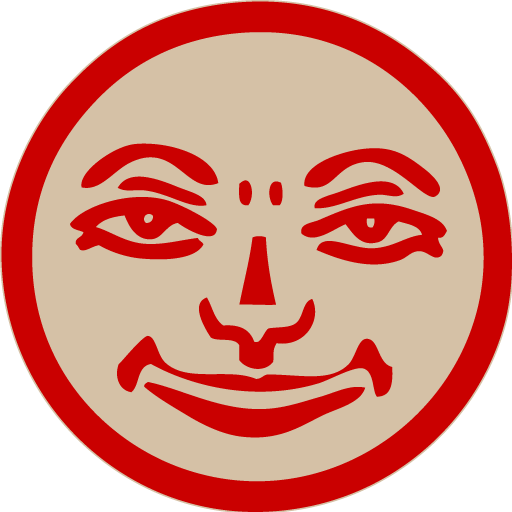
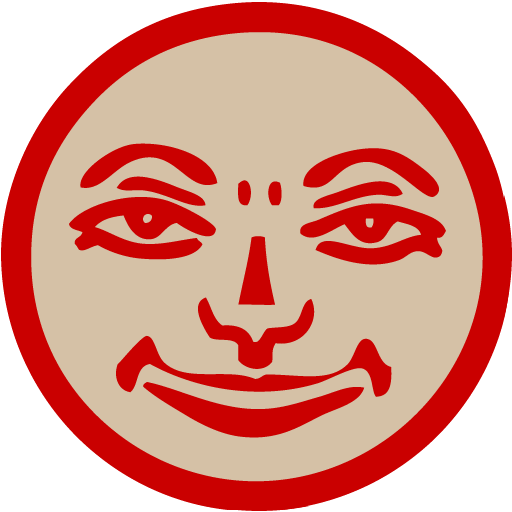
Refresh Jimmykub visual design
Replace the purple/yellow interface with a warmer Rummikub-inspired tile palette based on the favicon colors and classic red, blue, yellow, and black tile identity.\n\nAdd the joker mark to the setup screen, constrain the desktop layout to the mobile-width view, tighten vertical spacing, update player color backplates, and adjust theme metadata.\n\nFix duration handling so preset selections can start the timer without the empty custom field clearing the chosen length.

diff --git a/style.css b/style.css
@@ -1,15 +1,15 @@
 :root {
-  --bg: #0f1023;
-  --bg-2: #1a1a2e;
-  --card: #232347;
-  --card-2: #2d2d5a;
-  --text: #f4f4ff;
-  --muted: #9696c4;
-  --accent: #ffd166;
-  --accent-2: #ef476f;
-  --good: #06d6a0;
-  --warn: #ffb703;
-  --bad: #ef476f;
+  --bg: #d5c1a3;
+  --bg-2: #eadcc7;
+  --card: #fff8ec;
+  --card-2: #f2e5d0;
+  --text: #241d18;
+  --muted: #7b6d5c;
+  --accent: #d30000;
+  --accent-2: #0057b8;
+  --good: #0057b8;
+  --warn: #f2c94c;
+  --bad: #d30000;
   --safe-top: env(safe-area-inset-top, 0px);
   --safe-bot: env(safe-area-inset-bottom, 0px);
 }
@@ -42,16 +42,34 @@ body { overflow: hidden; }
 
 /* ---------- Setup screen ---------- */
 #setup-screen {
-  padding: calc(var(--safe-top) + 16px) 20px calc(var(--safe-bot) + 14px);
+  width: min(100%, 430px);
+  margin: 0 auto;
+  padding: calc(var(--safe-top) + 10px) 20px calc(var(--safe-bot) + 10px);
   overflow: hidden;
-  background: linear-gradient(180deg, var(--bg) 0%, var(--bg-2) 100%);
+  background: linear-gradient(180deg, var(--bg-2) 0%, var(--bg) 100%);
+}
+
+#setup-screen > .page-joker {
+  width: 40px;
+  height: 40px;
+  min-width: 40px;
+  max-width: 40px;
+  min-height: 40px;
+  max-height: 40px;
+  flex: 0 0 40px;
+  border-radius: 50%;
+  display: block;
+  object-fit: cover;
+  margin: 0 auto 8px;
+  background: var(--bg);
 }
 
 .block {
   background: var(--card);
+  border: 1px solid rgba(36, 29, 24, 0.1);
   border-radius: 14px;
   padding: 16px;
-  margin-bottom: 12px;
+  margin-bottom: 8px;
 }
 
 .block h2 {
@@ -130,7 +148,7 @@ body { overflow: hidden; }
   width: 26px;
   height: 26px;
   border-radius: 7px;
-  background: rgba(255, 255, 255, 0.08);
+  background: rgba(36, 29, 24, 0.08);
   border: none;
   color: var(--text);
   font-size: 14px;
@@ -139,22 +157,22 @@ body { overflow: hidden; }
   cursor: pointer;
   font-family: inherit;
 }
-.seat .controls button:active { background: rgba(255, 255, 255, 0.2); }
+.seat .controls button:active { background: rgba(36, 29, 24, 0.16); }
 .seat .controls button:disabled {
-  color: rgba(244, 244, 255, 0.3);
+  color: rgba(36, 29, 24, 0.3);
   cursor: not-allowed;
 }
 .seat .controls .remove {
-  background: rgba(239, 71, 111, 0.22);
-  color: #ffc0cf;
+  background: rgba(211, 0, 0, 0.12);
+  color: #b40000;
 }
-.seat .controls .remove:active { background: rgba(239, 71, 111, 0.4); }
+.seat .controls .remove:active { background: rgba(211, 0, 0, 0.22); }
 
 /* Bench (sitting out) */
 .bench {
   margin-top: 10px;
   padding-top: 10px;
-  border-top: 1px solid rgba(255, 255, 255, 0.08);
+  border-top: 1px solid rgba(36, 29, 24, 0.12);
   display: flex;
   align-items: center;
   justify-content: center;
@@ -185,7 +203,7 @@ body { overflow: hidden; }
   min-height: 36px;
   padding: 3px 4px 3px 3px;
   border-radius: 18px;
-  background: rgba(255, 255, 255, 0.05);
+  background: rgba(36, 29, 24, 0.06);
 }
 .bench-player .avatar {
   width: 30px;
@@ -203,7 +221,7 @@ body { overflow: hidden; }
   height: 24px;
   border-radius: 50%;
   background: var(--good);
-  color: #00261c;
+  color: #fff8ec;
   border: none;
   font-size: 17px;
   font-weight: 700;
@@ -244,7 +262,7 @@ body { overflow: hidden; }
   font-weight: 600;
 }
 .first-option.selected {
-  background: rgba(255, 209, 102, 0.18);
+  background: rgba(211, 0, 0, 0.08);
   box-shadow: 0 0 0 2px var(--accent) inset;
 }
 .first-option:active { transform: scale(0.97); }
@@ -262,20 +280,20 @@ body { overflow: hidden; }
   border-radius: 6px;
   margin: -4px -6px;
 }
-.link-btn:active { background: rgba(255, 209, 102, 0.15); }
+.link-btn:active { background: rgba(211, 0, 0, 0.1); }
 .reorder button {
   width: 36px;
   height: 36px;
   border-radius: 10px;
   border: none;
-  background: rgba(255,255,255,0.08);
+  background: rgba(36,29,24,0.08);
   color: var(--text);
   font-size: 18px;
   font-weight: 700;
   cursor: pointer;
 }
 .reorder button:disabled { opacity: 0.25; }
-.reorder button:active:not(:disabled) { background: rgba(255,255,255,0.18); }
+.reorder button:active:not(:disabled) { background: rgba(36,29,24,0.16); }
 
 /* Presets */
 .preset-row {
@@ -303,7 +321,7 @@ body { overflow: hidden; }
 .preset.active,
 .preset-input.active {
   background: var(--accent);
-  color: #1a1a2e;
+  color: #fff8ec;
 }
 .preset:active { transform: scale(0.97); }
 .preset-input {
@@ -320,20 +338,20 @@ body { overflow: hidden; }
 .preset-input:focus { outline: 2px solid var(--accent); background: var(--bg-2); }
 .preset-input.active:focus {
   background: var(--accent);
-  color: #1a1a2e;
+  color: #fff8ec;
 }
 
 .primary-btn {
   width: 100%;
-  padding: 16px;
+  padding: 12px;
   border-radius: 14px;
   border: none;
   background: var(--accent);
-  color: #1a1a2e;
-  font-size: 20px;
+  color: #fff8ec;
+  font-size: 17px;
   font-weight: 800;
   cursor: pointer;
-  margin-top: 2px;
+  margin-top: 0;
   letter-spacing: 0.3px;
 }
 .primary-btn:disabled {
@@ -367,15 +385,19 @@ body { overflow: hidden; }
   background: var(--bg);
   transition: background-color 0.4s;
 }
-#timer-screen.warn { background: #5a3a00; }
-#timer-screen.danger { background: #6b0f1f; }
+#timer-screen.warn { background: #f2c94c; }
+#timer-screen.danger {
+  background: #c90000;
+  color: #fff8ec;
+}
 #timer-screen.overtime {
-  background: #4a0014;
+  background: #8c0000;
+  color: #fff8ec;
   animation: overtime-pulse 1.6s ease-in-out infinite;
 }
 @keyframes overtime-pulse {
-  0%, 100% { background-color: #4a0014; }
-  50% { background-color: #7a0020; }
+  0%, 100% { background-color: #8c0000; }
+  50% { background-color: #b40000; }
 }
 
 .back-btn {
@@ -386,7 +408,7 @@ body { overflow: hidden; }
   height: 44px;
   border-radius: 50%;
   border: none;
-  background: rgba(255,255,255,0.08);
+  background: rgba(36,29,24,0.08);
   color: var(--text);
   font-size: 28px;
   line-height: 1;
@@ -394,7 +416,7 @@ body { overflow: hidden; }
   cursor: pointer;
   z-index: 10;
 }
-.back-btn:active { background: rgba(255,255,255,0.18); }
+.back-btn:active { background: rgba(36,29,24,0.16); }
 
 .timer-stage {
   flex: 1;

diff --git a/app.js b/app.js
@@ -4,16 +4,16 @@
 
 const PLAYERS = [
   { id: 'jay',   name: 'Jay',   avatar: 'avatars/Jay.png',
-    bg: 'radial-gradient(circle at 35% 30%, #7CB8F5 0%, #2E6FD1 100%)' },
+    bg: 'radial-gradient(circle at 35% 30%, #6EA8FF 0%, #0057B8 100%)' },
   { id: 'jim',   name: 'Jim',   avatar: 'avatars/Jim.png',
-    bg: 'radial-gradient(circle at 35% 30%, #A8E063 0%, #3B8B2E 100%)' },
+    bg: 'radial-gradient(circle at 35% 30%, #FFD86A 0%, #D79B00 100%)' },
   { id: 'catie', name: 'Catie', avatar: 'avatars/Catie.png',
-    bg: 'radial-gradient(circle at 35% 30%, #F48FB1 0%, #C2185B 100%)' },
+    bg: 'radial-gradient(circle at 35% 30%, #FF6B5F 0%, #D30000 100%)' },
   { id: 'lucas', name: 'Lucas', avatar: 'avatars/Lucas.png',
-    bg: 'radial-gradient(circle at 35% 30%, #FFCC80 0%, #E65100 100%)' },
+    bg: 'radial-gradient(circle at 35% 30%, #6B6258 0%, #201915 100%)' },
 ];
 const JOKER_AVATAR = 'avatars/joker.png';
-const JOKER_BG = 'radial-gradient(circle at 35% 30%, #FFE082 0%, #FF6F00 100%)';
+const JOKER_BG = 'radial-gradient(circle at 35% 30%, #EADCC7 0%, #D30000 100%)';
 
 const STORAGE_KEY = 'jimmikub.settings.v2';
 
@@ -311,7 +311,7 @@ function drawSeatArrow(svg, from, to, offset = 0, gap = ARROW_GAP) {
   line.setAttribute('y1', y1);
   line.setAttribute('x2', baseX);
   line.setAttribute('y2', baseY);
-  line.setAttribute('stroke', '#f4f4ff');
+  line.setAttribute('stroke', '#4c4238');
   line.setAttribute('stroke-width', '2.4');
   line.setAttribute('stroke-linecap', 'round');
   group.appendChild(line);
@@ -322,7 +322,7 @@ function drawSeatArrow(svg, from, to, offset = 0, gap = ARROW_GAP) {
     `${baseX + perpX},${baseY + perpY}`,
     `${baseX - perpX},${baseY - perpY}`,
   ].join(' '));
-  head.setAttribute('fill', '#f4f4ff');
+  head.setAttribute('fill', '#4c4238');
   group.appendChild(head);
 
   svg.appendChild(group);
@@ -581,6 +581,9 @@ function readCustomDuration() {
 function commitCustomDuration({ normalize = false } = {}) {
   const v = readCustomDuration();
   if (v === false) {
+    if (Number.isFinite(state.durationSec) && document.activeElement !== customInput) {
+      return true;
+    }
     clearDurationSelection();
     return true;
   }
@@ -770,7 +773,8 @@ document.addEventListener('visibilitychange', () => {
 // ============================================================
 
 function startGame() {
-  if (!commitCustomDuration({ normalize: true })) {
+  const hasCustomEntry = customInput.value.trim() !== '';
+  if (hasCustomEntry && !commitCustomDuration({ normalize: true })) {
     customInput.reportValidity?.();
     customInput.focus();
     return;

diff --git a/index.html b/index.html
@@ -3,10 +3,10 @@
 <head>
   <meta charset="UTF-8" />
   <meta name="viewport" content="width=device-width, initial-scale=1, viewport-fit=cover, user-scalable=no" />
-  <meta name="theme-color" content="#1a1a2e" />
+  <meta name="theme-color" content="#d5c1a3" />
   <meta name="apple-mobile-web-app-capable" content="yes" />
   <meta name="apple-mobile-web-app-status-bar-style" content="black-translucent" />
-  <title>Jimmikub Timer</title>
+  <title>Jimmykub</title>
   <link rel="icon" href="favicon.ico" sizes="any" />
   <link rel="icon" type="image/png" sizes="16x16" href="icons/favicon-16x16.png" />
   <link rel="icon" type="image/png" sizes="32x32" href="icons/favicon-32x32.png" />
@@ -17,6 +17,8 @@
 <body>
   <!-- Setup screen -->
   <section id="setup-screen" class="screen active">
+    <img class="page-joker" src="avatars/joker.png?v=2" alt="Joker" />
+
     <div class="block">
       <h2>Seat order</h2>
       <div id="seat-circle" class="seat-circle"></div>